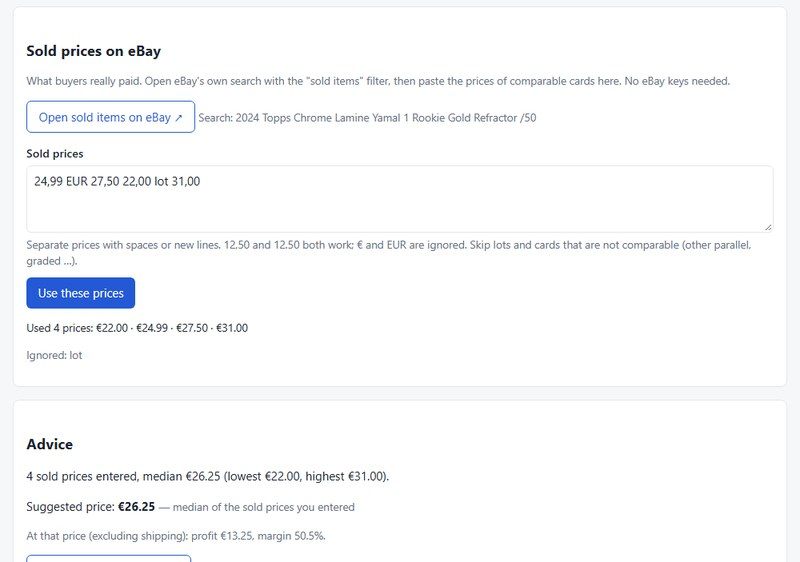
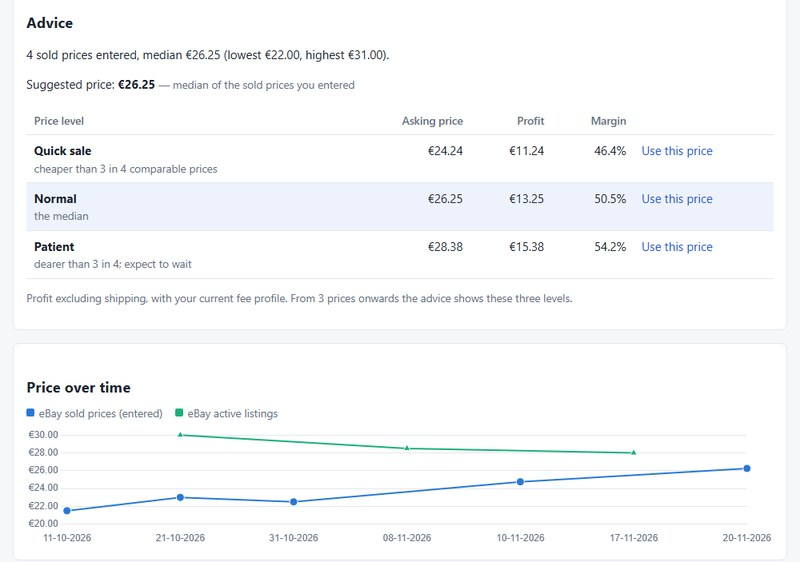
Refresh the price advice screenshot with the price levels and history chart

diff --git a/README.md b/README.md
@@ -21,7 +21,7 @@ when eBay goes down.
 | ![Listing generator](docs/screenshots/06-listing-generator.jpg) **Listing generator:** title of at most 80 characters with the variants, checks, profit at the asking price, the SKU and a button to the eBay sell form | ![Needs attention](docs/screenshots/07-attention.jpg) **Needs attention:** a suggestion per card; a price drop shows the new profit straight away |
 | ![Calculator](docs/screenshots/08-calculator.jpg) **Calculator:** from price to profit and from profit to price; a shipping method fills in the shipping cost | ![Fee profiles](docs/screenshots/14-fees.jpg) **Fees:** fee profiles per category with a valid-from date; the starter profile is for a private seller on eBay.de |
 | ![Shipping methods](docs/screenshots/10-shipping.jpg) **Shipping methods:** Deutsche Post and DHL prices to start with, editable | ![Edit a shipping method](docs/screenshots/13-shipping-edit.jpg) **Edit a shipping method:** change a price when DHL or Deutsche Post does; past sales keep their amounts |
-| ![Price advice](docs/screenshots/11-price-advice.jpg) **Price advice:** open eBay's sold items, paste the prices and get a suggested price; no API keys needed | ![eBay connection](docs/screenshots/15-ebay.jpg) **eBay connection:** status of the API keys and the account link; price advice works without keys |
+| ![Price advice](docs/screenshots/11-price-advice.jpg) **Price advice:** paste eBay sold prices and pick a quick, normal or patient asking price, with the price history below; no API keys needed | ![eBay connection](docs/screenshots/15-ebay.jpg) **eBay connection:** status of the API keys and the account link; price advice works without keys |
 | ![Seller Hub upload](docs/screenshots/16-seller-hub-upload.jpg) **Seller Hub upload:** links straight to your Seller Hub orders and downloads; upload the CSV | ![Seller Hub import](docs/screenshots/12-seller-hub-import.jpg) **Seller Hub import:** a card suggested per sale (item number, SKU or title); rows with a problem are shown and skipped |
 | ![API docs](docs/screenshots/09-api-docs.jpg) **REST API:** OpenAPI docs with token authentication | |
 
